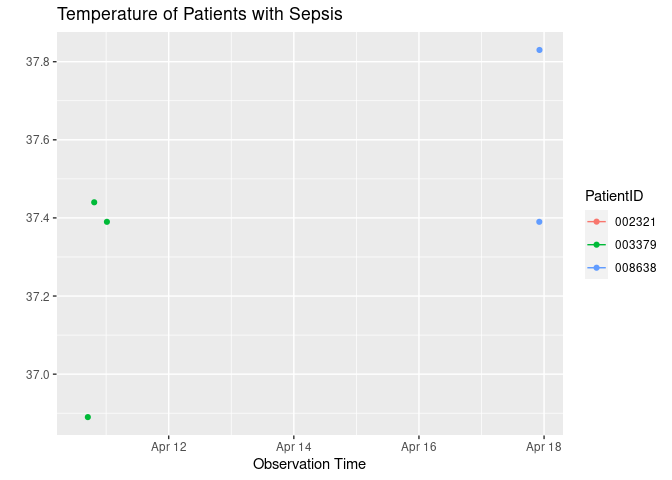
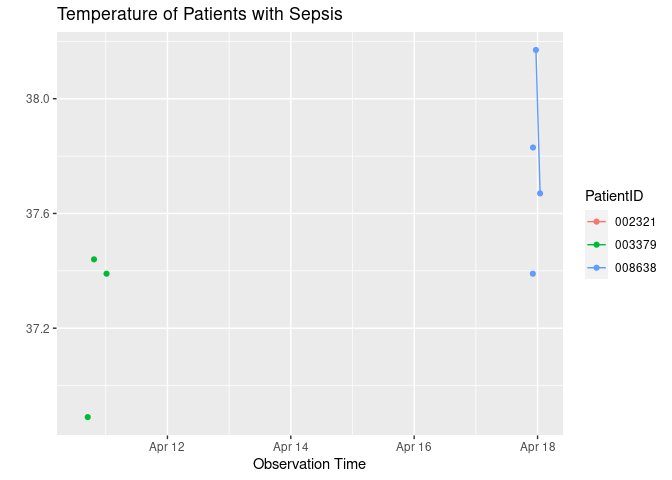
Updated report

diff --git a/README.md b/README.md
@@ -8,13 +8,13 @@ Yansong Wen
 
 \#TASK 4
 
-    [1] "2023-04-17 23:17:55 UTC"
+    [1] "2023-04-18 01:20:43 UTC"
 
-| PatientID |  HR | Temp | Resp |
-|:----------|----:|-----:|-----:|
-| 002321    | 102 |   NA |   20 |
-| 003379    |  85 |   NA |   32 |
-| 008638    | 102 |   NA |   12 |
+| PatientID |  HR |  Temp | Resp |
+|:----------|----:|------:|-----:|
+| 002321    | 102 |    NA |   20 |
+| 003379    |  85 |    NA |   32 |
+| 008638    | 105 | 37.67 |   16 |
 
 ![](README_files/figure-commonmark/unnamed-chunk-4-1.png)
 
@@ -68,7 +68,7 @@ Yansong Wen
 | 007742    |  NA |    NA |    NA |
 | 007753    |  NA |    NA |    NA |
 | 008527    |  NA |    NA |    NA |
-| 008638    |   3 |    NA |   -12 |
+| 008638    |   0 |  -0.5 |     3 |
 | 008639    |  -4 |    NA |     2 |
 | 008828    |   6 |   0.0 |    -5 |
 | 009301    |   4 |    NA |     0 |
